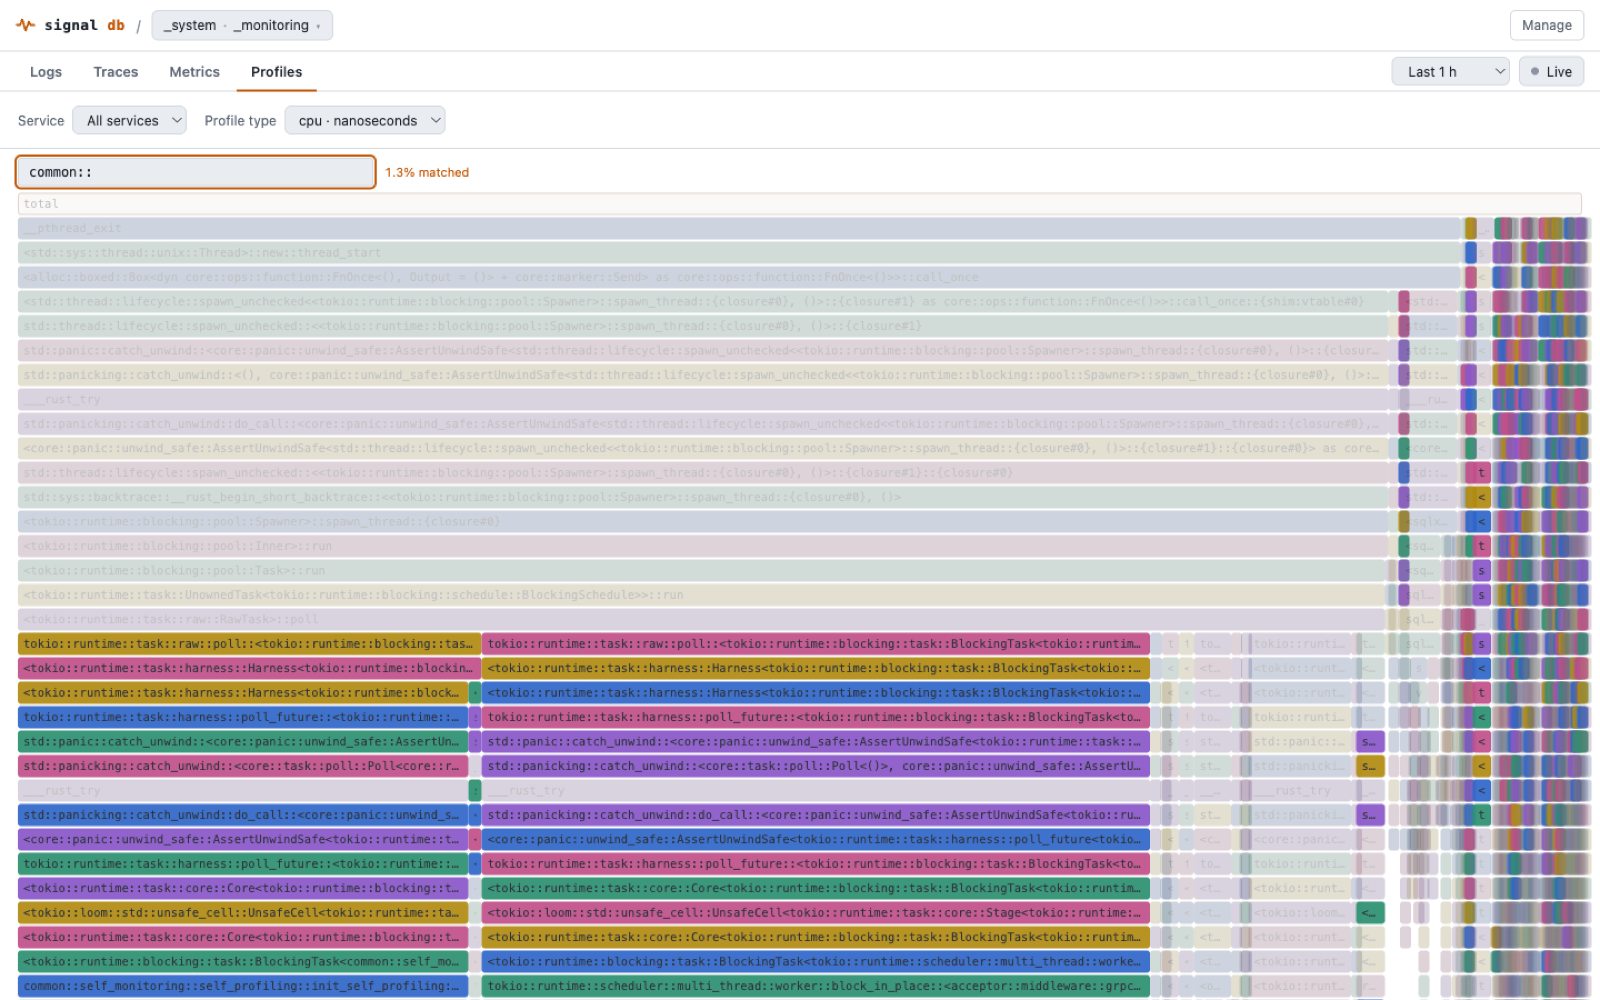
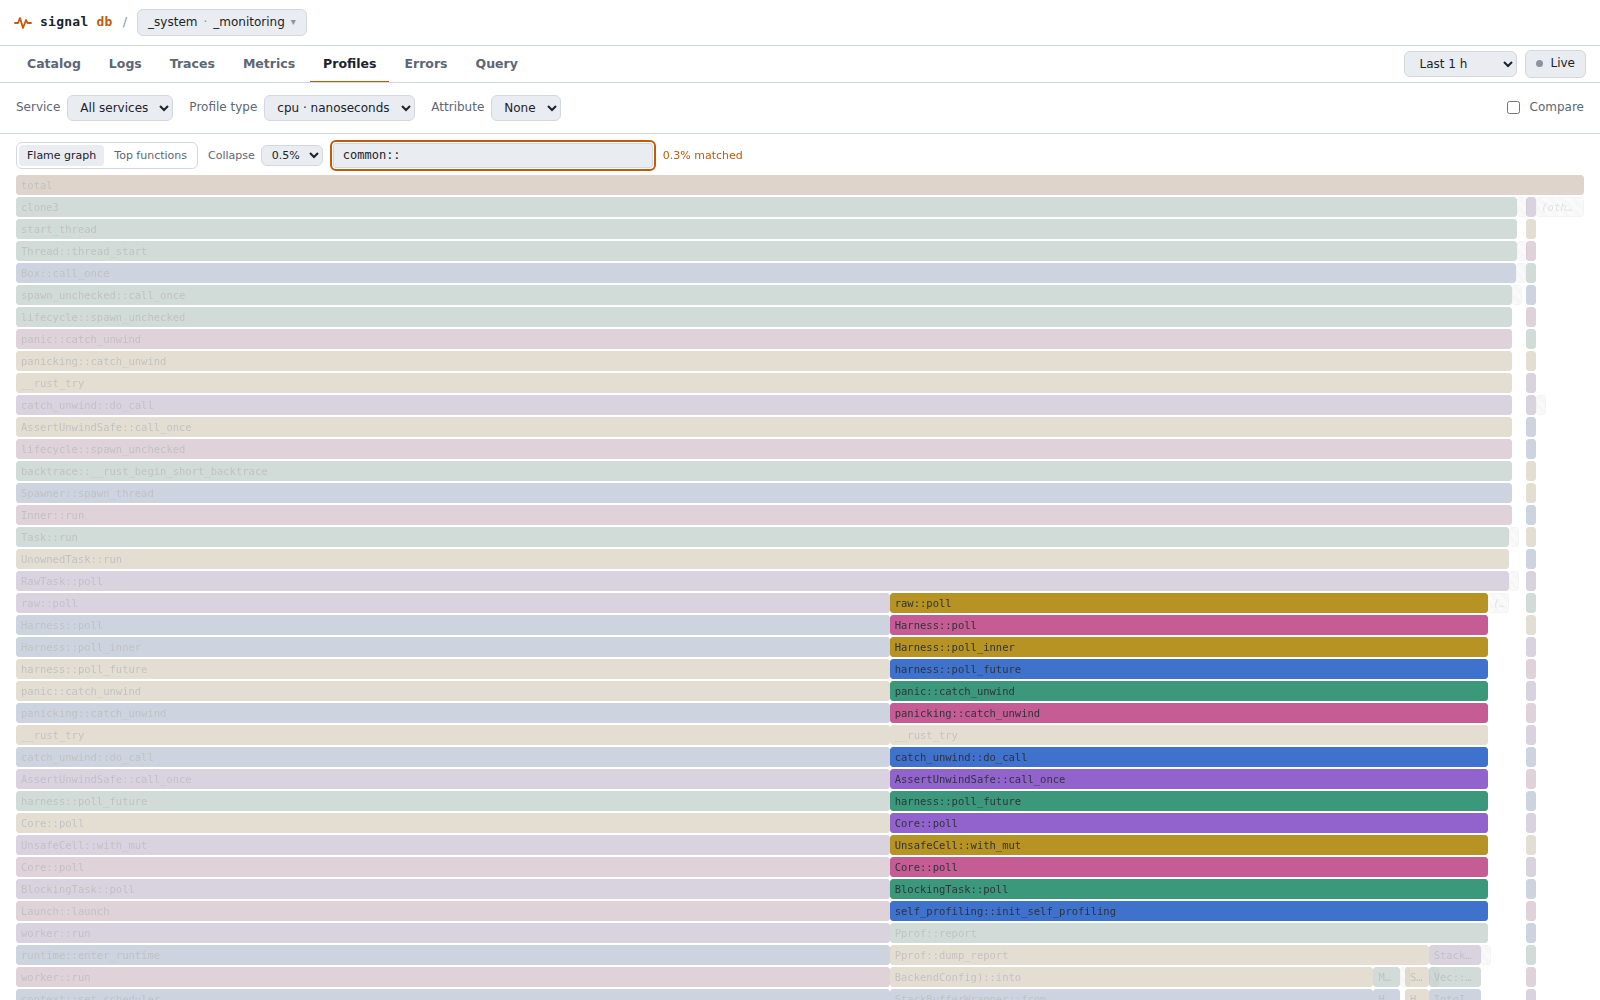
docs(ui): refresh the explore screenshots and name every tab (#1461)
The four explore images predated most of the current UI: three signal
tabs instead of seven, a histogram with no axis or controls, a raw PromQL
box instead of the builder, an uncoloured two-span waterfall, and a
profiles toolbar without Compare, Collapse, the view toggle or the
breadcrumb. Recaptured at the same framing from a seeded dev instance.

The intro sentence still said the UI covered logs, traces and metrics and
that everything went through the Grafana-compatible APIs; it now names
every tab and says which ones read through the Query IR.

Claude-Session: https://claude.ai/code/session_01VyFCbX9eVVsQZdMbiM3Kw8

diff --git a/docs/users/explore-ui.md b/docs/users/explore-ui.md
@@ -10,14 +10,19 @@ sources:
 
 # Explore UI
 
-SignalDB ships a built-in explore UI for logs, traces, and metrics, served
-by the router at its **root** (`http://<router>:3000/`, as a SPA fallback
-behind the API routes). It consumes the same Loki-, Tempo-, and
-Prometheus-compatible APIs that Grafana uses, so anything visible in the UI is
-equally queryable from Grafana. It also hosts the OAuth connector **consent
-screen** at `/oauth/consent` (see [MCP](mcp.md)).
+SignalDB ships a built-in explore UI for the service catalog, logs, traces,
+metrics, profiles, and errors, plus a native [Query IR](querying-ir.md) tab,
+served by the router at its **root** (`http://<router>:3000/`, as a SPA
+fallback behind the API routes). The logs tab consumes the Loki-compatible
+API that Grafana uses, and the metrics tab the Prometheus-compatible one, so
+what they show is equally queryable from Grafana — with one exception: a
+single builder row with no range function and no formula runs on the Query IR
+(see [Building metric queries](#building-metric-queries)). The other tabs read
+their data through the Query IR; only their attribute and label pickers still
+use the Tempo and Pyroscope discovery endpoints. It also hosts the OAuth
+connector **consent screen** at `/oauth/consent` (see [MCP](mcp.md)).
 
-![Explore UI logs view: virtualized log list with level colors, volume histogram, and fields sidebar](../assets/screenshots/explore-logs.png)
+![Explore UI logs view: virtualized log list with level colors, a volume histogram with bucket-width and log-scale controls, and the fields sidebar](../assets/screenshots/explore-logs.png)
 
 ## What it does
 
@@ -460,7 +465,7 @@ thin band rather than rounding away.
 
 ![Explore UI trace waterfall with span details and a link to correlated logs](../assets/screenshots/explore-traces.png)
 
-![Explore UI metrics view charting a PromQL range query across two services](../assets/screenshots/explore-metrics.png)
+![Explore UI metrics view charting a PromQL query, one series per service, with the Builder and PromQL tabs](../assets/screenshots/explore-metrics.png)
 
 ![Explore UI profiles flame graph with the highlight box narrowing a CPU profile to SignalDB's own frames](../assets/screenshots/explore-profiles.png)
 
